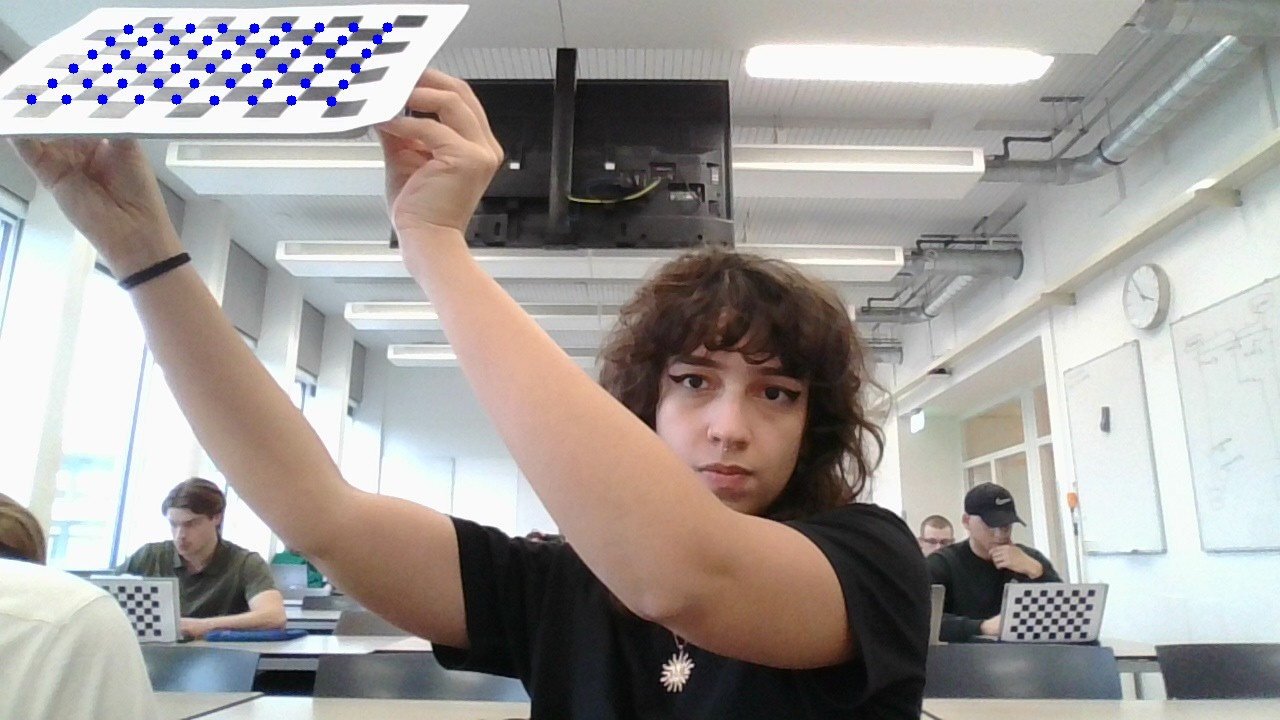
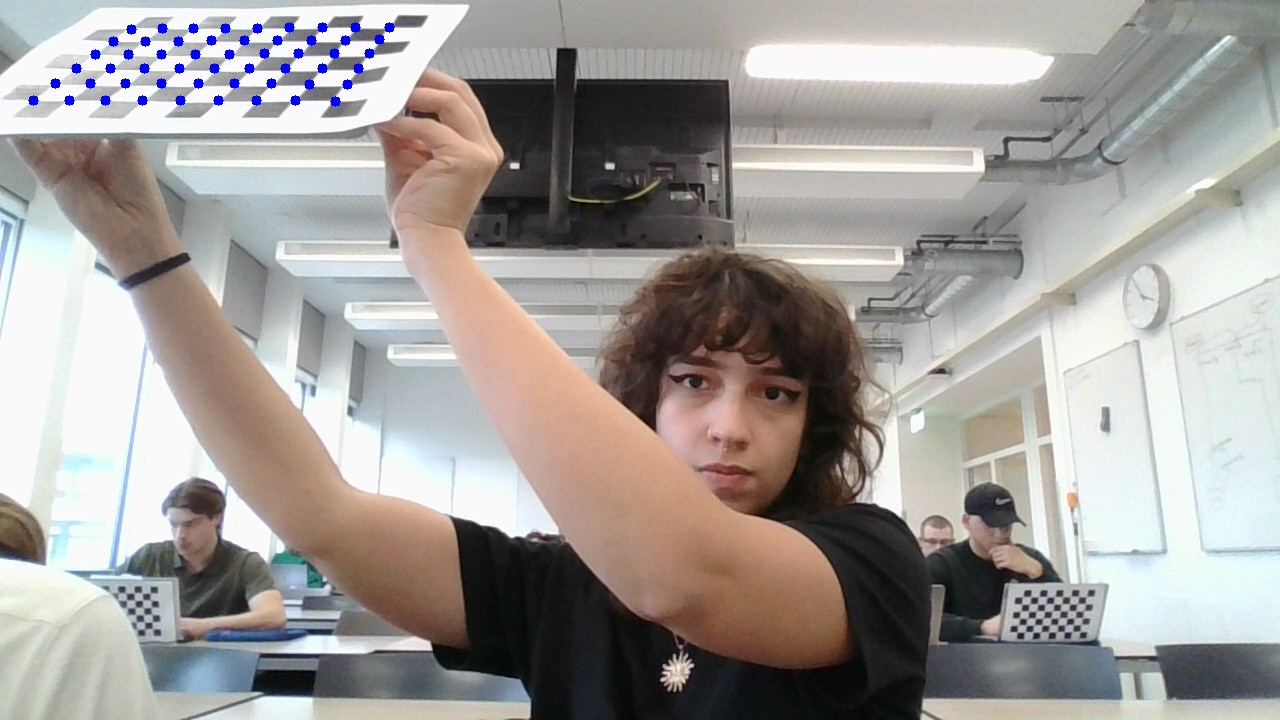
small changes + Choice task 6

Changed region(s): [[0.0, 0.0306, 0.3125, 0.1528]]

diff --git a/Assignment1.py b/Assignment1.py
@@ -3,9 +3,10 @@ import cv2 as cv
 import glob
 import os
 import shutil
+import matplotlib.pyplot as plt
 
 EDGE_SIZE = 25 # size of the square edge (in mm)
-L = 75  # length of axes (TODO: for each square (?)) in mm
+L = 75  # length of axes in mm
 axis = np.float32([
     [0, 0, 0],   # origin
     [L, 0, 0],   # X
@@ -137,12 +138,11 @@ def color_face(img, face, color, dist_m, alpha = 0.5):
     cv.fillConvexPoly(overlay, face, color)
     cv.circle(overlay, center, 3, (0,0,0), -1)
 
-    # ---- Add distance text ----
     text = f"{dist_m:.2f} m"
     cv.putText(
         overlay,
         text,
-        (center[0] + 10, center[1] +30),   # slight offset from center
+        (center[0] + 10, center[1] +30),  
         cv.FONT_HERSHEY_SIMPLEX,
         0.6,
         (255,255,255),
@@ -179,7 +179,6 @@ def dynamic_color(img, face, dmin, dmax, rvec, tvec):
     dist = float(np.linalg.norm(face_top_center_cam))
     dist_m = dist / 1000
 
-    hsv = cv.cvtColor(img, cv.COLOR_BGR2HSV)
     t = (dist_m - dmin) / (dmax - dmin)
     t = float(np.clip(t, 0.0, 1.0))
     h = int(179 * (1 - np.clip(angle / 45.0, 0.0, 1.0)))
@@ -222,16 +221,16 @@ def draw_cube(img, cameraMatrix, distCoeffs, pattern_size, criteria,rvec=None, t
         _, rvec, tvec = cv.solvePnP(objp, corners, cameraMatrix, distCoeffs)
     
     gray = cv.cvtColor(img, cv.COLOR_BGR2GRAY)
-    #hsv = cv.cvtColor(img, cv.COLOR_BGR2HSV)
+
     # Find the chess board corners for the test image
     ret, corners = cv.findChessboardCorners(gray, (pattern_size[0],pattern_size[1]), None)
     board_object_points = create_object_points(9, 6, EDGE_SIZE)
 
     #Estimate for test image tvec and rvec
-    _, rvec, tvec = cv.solvePnP(board_object_points, corners, cameraMatrix1, distCoeffs1)
+    _, rvec, tvec = cv.solvePnP(board_object_points, corners, cameraMatrix, distCoeffs)
 
     # Project 3D axes to 2D image
-    imgpts, _ = cv.projectPoints(cube, rvec, tvec, cameraMatrix1, distCoeffs1)
+    imgpts, _ = cv.projectPoints(cube, rvec, tvec, cameraMatrix, distCoeffs)
     pts = imgpts.reshape(-1,2).astype(int)
     
     origin_pt = tuple(pts[0]) #TODO: ???
@@ -264,8 +263,6 @@ def draw_cube(img, cameraMatrix, distCoeffs, pattern_size, criteria,rvec=None, t
     else:
         return img
 
-
-
 # directories for the training images
 images = glob.glob('./Images/*.jpg')
 manual_images = glob.glob('./bad_images/*.jpg')
@@ -280,10 +277,12 @@ auto_imagePoints = []
 manual_objectPoints = []
 manual_imagePoints = []
 
-# create np arrays for object points (why do we need new object points?)
-objp = np.zeros((pattern_size[1]*pattern_size[0],3), np.float32)
-objp[:,:2] = np.mgrid[0:pattern_size[0],0:pattern_size[1]].T.reshape(-1,2)
-objp[:,:2] *= EDGE_SIZE 
+# create np arrays for object points (TODO: why do we need new object points?)
+# objp = np.zeros((pattern_size[1]*pattern_size[0],3), np.float32)
+# objp[:,:2] = np.mgrid[0:pattern_size[0],0:pattern_size[1]].T.reshape(-1,2)
+# objp[:,:2] *= EDGE_SIZE 
+objp = create_object_points(9,6,EDGE_SIZE)
+
 
 for fname in images:
     img = cv.imread(fname)
@@ -292,16 +291,15 @@ for fname in images:
     # Find the chess board corners
     ret, corners = cv.findChessboardCorners(gray, (pattern_size[0],pattern_size[1]), None)
 
-    # If found, add object points, image points (after refining them)
     if ret == True:
         auto_objectPoints.append(objp)
         #what is this for? do we really need it?
         corners2 = cv.cornerSubPix(gray, corners, (11,11), (-1,-1), criteria)
 
         # Reorder the corners to ensure top-left is origin 
-        corners2 = corners2.reshape(pattern_size[1], pattern_size[0], 2)
-        corners2 = np.flipud(np.fliplr(corners2))
-        corners2 = corners2.reshape(-1,2)
+        # corners2 = corners2.reshape(pattern_size[1], pattern_size[0], 2)
+        # corners2 = np.flipud(np.fliplr(corners2))
+        # corners2 = corners2.reshape(-1,2)
 
         auto_imagePoints.append(corners2)
 
@@ -459,37 +457,123 @@ draw_cube(img.copy(), cameraMatrix3, distCoeffs3, pattern_size=pattern_size, cri
     
 """
 
-cap = cv.VideoCapture(0)
+# cap = cv.VideoCapture(0)
 
-while True:
-    ret, frame = cap.read()
-    if not ret:
-        break
+# while True:
+#     ret, frame = cap.read()
+#     if not ret:
+#         break
 
-    gray = cv.cvtColor(frame, cv.COLOR_BGR2GRAY)
-    found, corners = cv.findChessboardCorners(gray, pattern_size)
+#     gray = cv.cvtColor(frame, cv.COLOR_BGR2GRAY)
+#     found, corners = cv.findChessboardCorners(gray, pattern_size)
 
-    if found and corners is not None and len(corners) == len(objp):
-        corners = cv.cornerSubPix(
-            gray, corners, (11,11), (-1,-1),
-            (cv.TERM_CRITERIA_EPS + cv.TERM_CRITERIA_MAX_ITER, 30, 0.001)
-        )
+#     if found and corners is not None and len(corners) == len(objp):
+#         corners = cv.cornerSubPix(
+#             gray, corners, (11,11), (-1,-1),
+#             (cv.TERM_CRITERIA_EPS + cv.TERM_CRITERIA_MAX_ITER, 30, 0.001)
+#         )
 
-        frame = draw_cube(
-            img=frame,
-            cameraMatrix=cameraMatrix1,
-            distCoeffs=distCoeffs1,
-            rvec=None,      
-            tvec=None,
-            pattern_size=pattern_size,
-            criteria=criteria,
-            online=True
-        )
+#         frame = draw_cube(
+#             img=frame,
+#             cameraMatrix=cameraMatrix1,
+#             distCoeffs=distCoeffs1,
+#             rvec=None,      
+#             tvec=None,
+#             pattern_size=pattern_size,
+#             criteria=criteria,
+#             online=True
+#         )
 
-    cv.imshow('Realtime pose', frame)
+#     cv.imshow('Realtime pose', frame)
 
-    if cv.waitKey(1) == 27:  # ESC to quit
-        break
+#     if cv.waitKey(1) == 27:  # ESC to quit
+#         break
 
-cap.release()
-cv.destroyAllWindows()
+# cap.release()
+# cv.destroyAllWindows()
+
+
+"""
+    Choice task 6
+
+"""
+cam_pos1 = []
+cam_orient = []
+cam_R = []
+
+for rvec, tvec in zip(rvecs1, tvecs1):
+    R, _ = cv.Rodrigues(rvec)
+    cam_pos = (-R.T @ tvec).reshape(3,)
+    cam_pos1.append(cam_pos)
+    cam_dir = (R.T @ np.array([0, 0, 1.0])).reshape(3)
+    cam_dir = cam_dir / np.linalg.norm(cam_dir)
+    cam_orient.append(cam_dir)
+    cam_R.append(R)
+
+#print(cam_pos1)
+
+#plot the points in 3d plane
+fig = plt.figure()
+ax = fig.add_subplot(111, projection='3d')
+arrow_len = 4 * EDGE_SIZE
+
+cam_pos1 = np.array(cam_pos1, dtype=float)
+cam_orient = np.array(cam_orient, dtype=float)
+
+# Flip Z axis
+cam_pos1[:,2] *= -1
+cam_orient[:,2] *= -1
+ax.scatter(cam_pos1[:,0], cam_pos1[:,1], cam_pos1[:,2], s=10)
+
+ax.quiver(cam_pos1[:,0], cam_pos1[:,1], cam_pos1[:,2],
+          cam_orient[:,0], cam_orient[:,1], cam_orient[:,2],
+          length=arrow_len, normalize=True)
+
+# --- Robust zoom: keep only central range per-axis (cuts outliers) ---
+qlo, qhi = 0.10, 0.90   # try (0.2, 0.8) for even closer
+
+xmin, ymin, zmin = np.quantile(cam_pos1, qlo, axis=0)
+xmax, ymax, zmax = np.quantile(cam_pos1, qhi, axis=0)
+
+pad = 0.15  # expand a bit so it doesn't clip
+dx, dy, dz = (xmax-xmin), (ymax-ymin), (zmax-zmin)
+
+ax.set_xlim(xmin - pad*dx, xmax + pad*dx)
+ax.set_ylim(ymin - pad*dy, ymax + pad*dy)
+ax.set_zlim(zmin - pad*dz, zmax + pad*dz)
+
+ax.view_init(elev=25, azim=-60)
+
+# Chessboard plane Z=0 with correct extents (mm)
+board_w = (pattern_size[0] - 1) * EDGE_SIZE
+board_h = (pattern_size[1] - 1) * EDGE_SIZE
+xx, yy = np.meshgrid([0, board_w], [0, board_h])
+zz = np.zeros_like(xx)
+ax.plot_surface(xx, yy, zz, alpha=0.1)
+
+ax.set_xlabel("X (mm)")
+ax.set_ylabel("Y (mm)")
+ax.set_zlabel("Z (mm)")
+
+def set_axes_equal(ax):
+    x_limits = ax.get_xlim3d()
+    y_limits = ax.get_ylim3d()
+    z_limits = ax.get_zlim3d()
+
+    x_range = abs(x_limits[1] - x_limits[0])
+    y_range = abs(y_limits[1] - y_limits[0])
+    z_range = abs(z_limits[1] - z_limits[0])
+
+    x_mid = np.mean(x_limits)
+    y_mid = np.mean(y_limits)
+    z_mid = np.mean(z_limits)
+
+    plot_radius = 0.5 * max([x_range, y_range, z_range])
+
+    ax.set_xlim3d([x_mid - plot_radius, x_mid + plot_radius])
+    ax.set_ylim3d([y_mid - plot_radius, y_mid + plot_radius])
+    ax.set_zlim3d([z_mid - plot_radius, z_mid + plot_radius])
+
+set_axes_equal(ax)
+
+plt.show()
